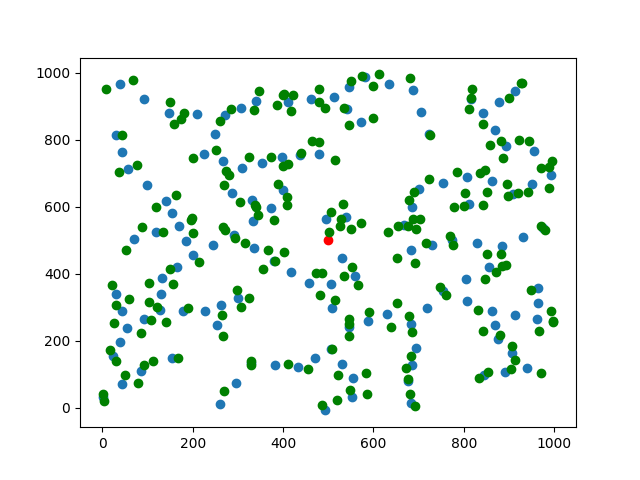
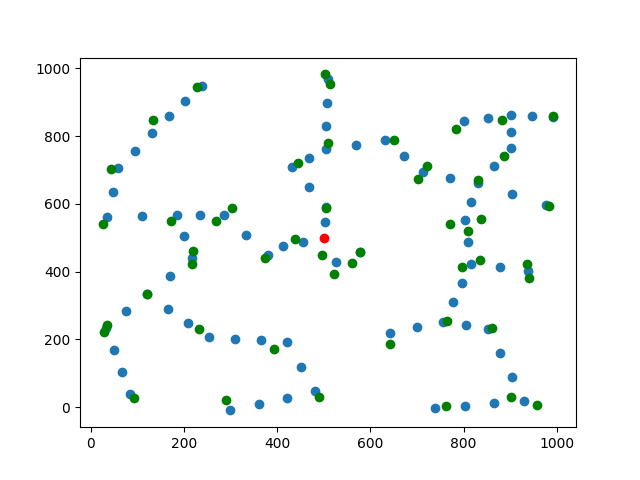
fix alogorithm

diff --git a/runner/checkRL.py b/runner/checkRL.py
@@ -6,6 +6,9 @@ import matplotlib.pyplot as plt
 import pandas as pd
 sys.path.append(os.path.dirname(os.path.dirname(__file__)))
 from rl_env.WRSN import WRSN
+import matplotlib.pyplot as plt
+import numpy as np
+import pickle
 
 def log(net):
     # If you want to print something, just put it here. Do not fix the core code.
@@ -19,13 +22,15 @@ network = WRSN(scenario_path="physical_env/network/network_scenarios/hanoi1000n5
                ,num_agent=3)
 
 
-n_episode = 1
+n_episode = 2
+
+with open('q_table.pkl', 'rb') as f:
+    q = pickle.load(f)
+
+# for i in range(3):
+#     q.append(np.zeros((50, 50), dtype=float))
 
 
-q = []
-for i in range(3):
-    q.append(np.zeros((83, 83), dtype=float))
-    
 for eps in range(n_episode):
     network.reset()
     network.env.process(log(network.net)) 
@@ -36,15 +41,22 @@ for eps in range(n_episode):
             network.step()
         else:
             for i, node in enumerate(network.net.listNodes):
-                print (i, node.location, node.energy, node.energyCS, node.energyRR, node.num_path)
+                print (i, node.location, node.energy)
             for id, agent, in enumerate(network.agents):
                 q[id] = agent.q_learning.q_table 
             break
+
+    with open('q_table.pkl', 'wb') as f:
+        pickle.dump(q, f)
     print(network.net.env.now)
 
 
-import seaborn as sns
-import matplotlib.pyplot as plt
 
-sns.heatmap(q[0], q[1], q[2], cmap='viridis') 
-plt.savefig("heatmapq1.png")
+
+
+for i in range(3):
+    plt.imshow(q[i], cmap='viridis', interpolation='nearest')
+    if i == 0:
+        plt.colorbar()  
+    plt.title('agent 1')  
+    plt.savefig(f'agent{i+1}')

diff --git a/controller/Q_learning.py b/controller/Q_learning.py
@@ -1,16 +1,28 @@
 import numpy as np
-import math
 from scipy.spatial.distance import euclidean
+from sklearn.cluster import KMeans
+import numpy as np
+
+
+def kmeans_clustering(list_node, n_clusters):
+    kmeans = KMeans(n_clusters=n_clusters)
+    kmeans.fit(list_node)
+    centers = kmeans.cluster_centers_
+    labels = kmeans.predict(list_node) 
+    return centers
+
 
 def init_qtable(n_actions):
     return np.zeros((n_actions, n_actions), dtype=float)
 
 def init_list_action(n_actions, net):
-    list_action = []
-    list_action.append([net.baseStation.location[0], net.baseStation.location[1]])
-    for i in range(0, n_actions-1):
-        list_action.append([net.listNodes[i].location[0], net.listNodes[i].location[1]])
-    return np.asarray(list_action)
+    list_nodes = np.array([node.location for node in net.listNodes])
+    cluster_centers = kmeans_clustering(list_nodes, n_clusters=49)
+    cluster_centers = np.vstack((np.array([[500, 500]]), cluster_centers))
+    # list_action.append([net.baseStation.location[0], net.baseStation.location[1]])
+    # for i in range(0, n_actions-1):
+    #     list_action.append([net.listNodes[i].location[0], net.listNodes[i].location[1]])
+    return cluster_centers
     
 
 class Q_learning:
@@ -23,7 +35,7 @@ class Q_learning:
         self.theta = theta
     
     def reset(self):
-        self.n_actions = len(self.mc.net.listNodes) + 1
+        self.n_actions = 50
         self.action_list = init_list_action(self.n_actions, self.mc.net)
         #self.q_table = init_qtable(self.n_actions)
         self.charging_time = [0.0 for _ in self.action_list]

diff --git a/runner/test.py b/runner/test.py
@@ -1,5 +1,24 @@
-a = [1,2,7,4,8]
-if all (i for i in a) > 1:
-    print(1)
-else :
-    print (0)
+from sklearn.cluster import KMeans
+import yaml
+import numpy as np
+import matplotlib.pyplot as plt
+
+def kmeans_clustering(list_node, n_clusters):
+    kmeans = KMeans(n_clusters=n_clusters)
+    kmeans.fit(list_node)
+    centers = kmeans.cluster_centers_
+    labels = kmeans.predict(list_node) 
+    return centers
+
+def read_yaml_file(file_path):
+    with open(file_path, 'r') as file:
+        data = yaml.safe_load(file)
+    return data
+
+data = read_yaml_file(r"D:\Hust Study\Module\Module 3\Evolutionary Computation\WRSN\physical_env\network\network_scenarios\hanoi1000n200.yaml")
+list_node = np.array(data['nodes'])
+
+# Phân cụm bằng KMeans với đầu ra là 80 cụm
+cluster_centers = kmeans_clustering(list_node, n_clusters=49)
+cluster_centers = np.vstack((np.array([[500, 500]]), cluster_centers))
+print(cluster_centers)

diff --git a/physical_env/network/Node.py b/physical_env/network/Node.py
@@ -43,12 +43,10 @@ class Node:
         self.log = []
         self.log_energy = 0
         self.check_status()
-        self.target_data = []
-        self.num_path = 0
+        #self.target_data = []
+        #self.num_path = 0
         self.is_request = False
         self.theta = 0.2
-
-        self.num_path = 0
         
     def count_path(self):
         tmp = self.neighbors.copy()
@@ -152,9 +150,9 @@ class Node:
 
     def receive_package(self, package):
         e_receive = self.er * package.package_size
-        if package.target_id not in self.target_data :
-            self.target_data.append(package.target_id)
-            self.num_path +=1
+        # if package.target_id not in self.target_data :
+        #     self.target_data.append(package.target_id)
+        #     self.num_path +=1
         if self.energy - self.threshold < e_receive:
             self.energy = self.threshold
         else:

diff --git a/runner/check.py b/runner/check.py
@@ -19,7 +19,7 @@ class WRSN:
 
 random.seed(0)
 
-netIO = NetworkIO("physical_env/network/network_scenarios/hanoi1000n200.yaml")
+netIO = NetworkIO("physical_env/network/network_scenarios/hanoi1000n50.yaml")
 env, net = netIO.makeNetwork()
 
 node_x = [node.location[0] for node in net.listNodes]
